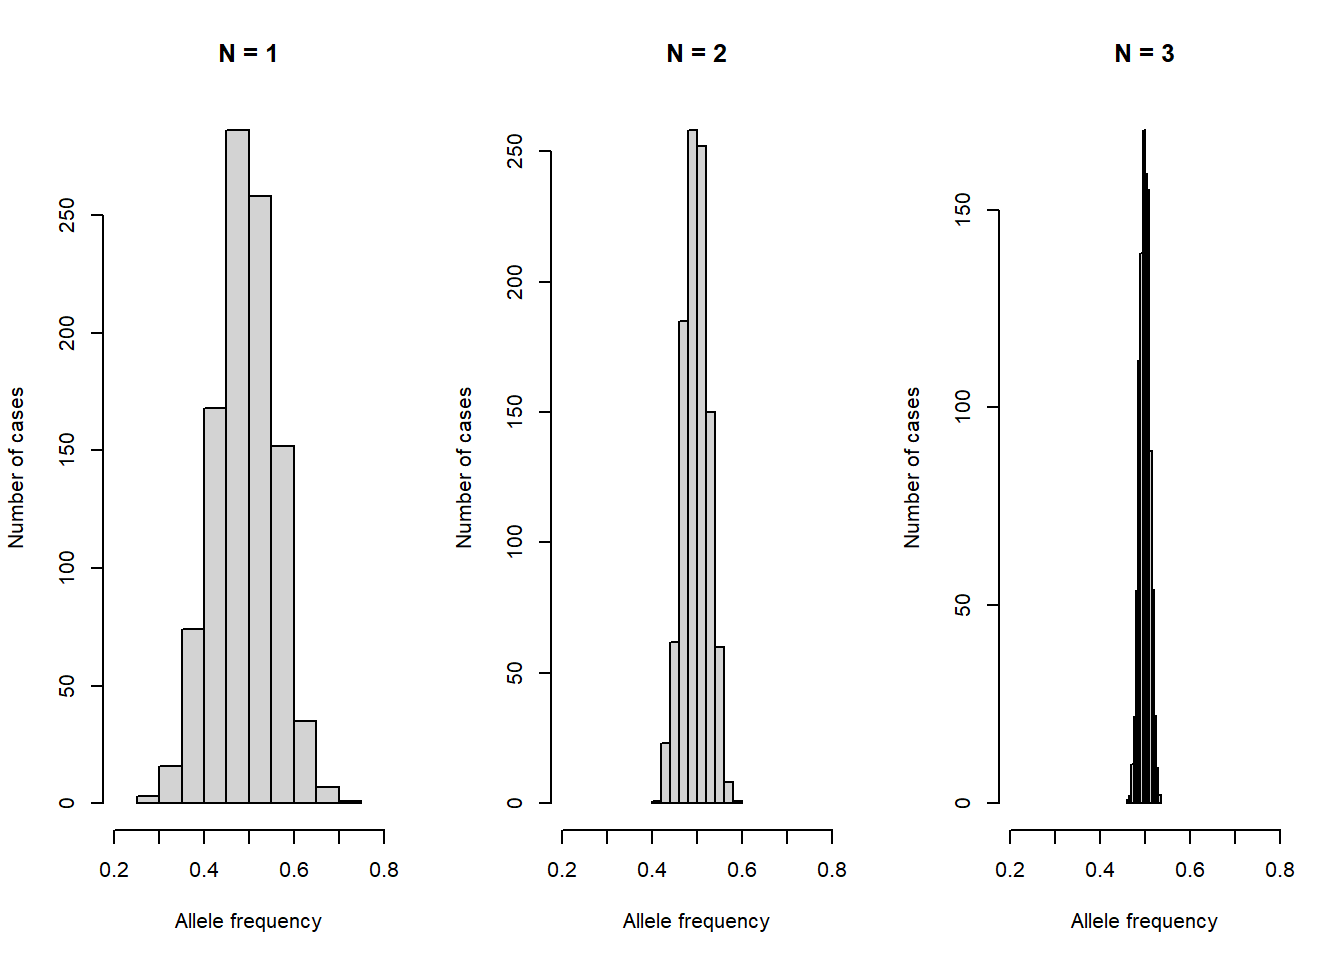
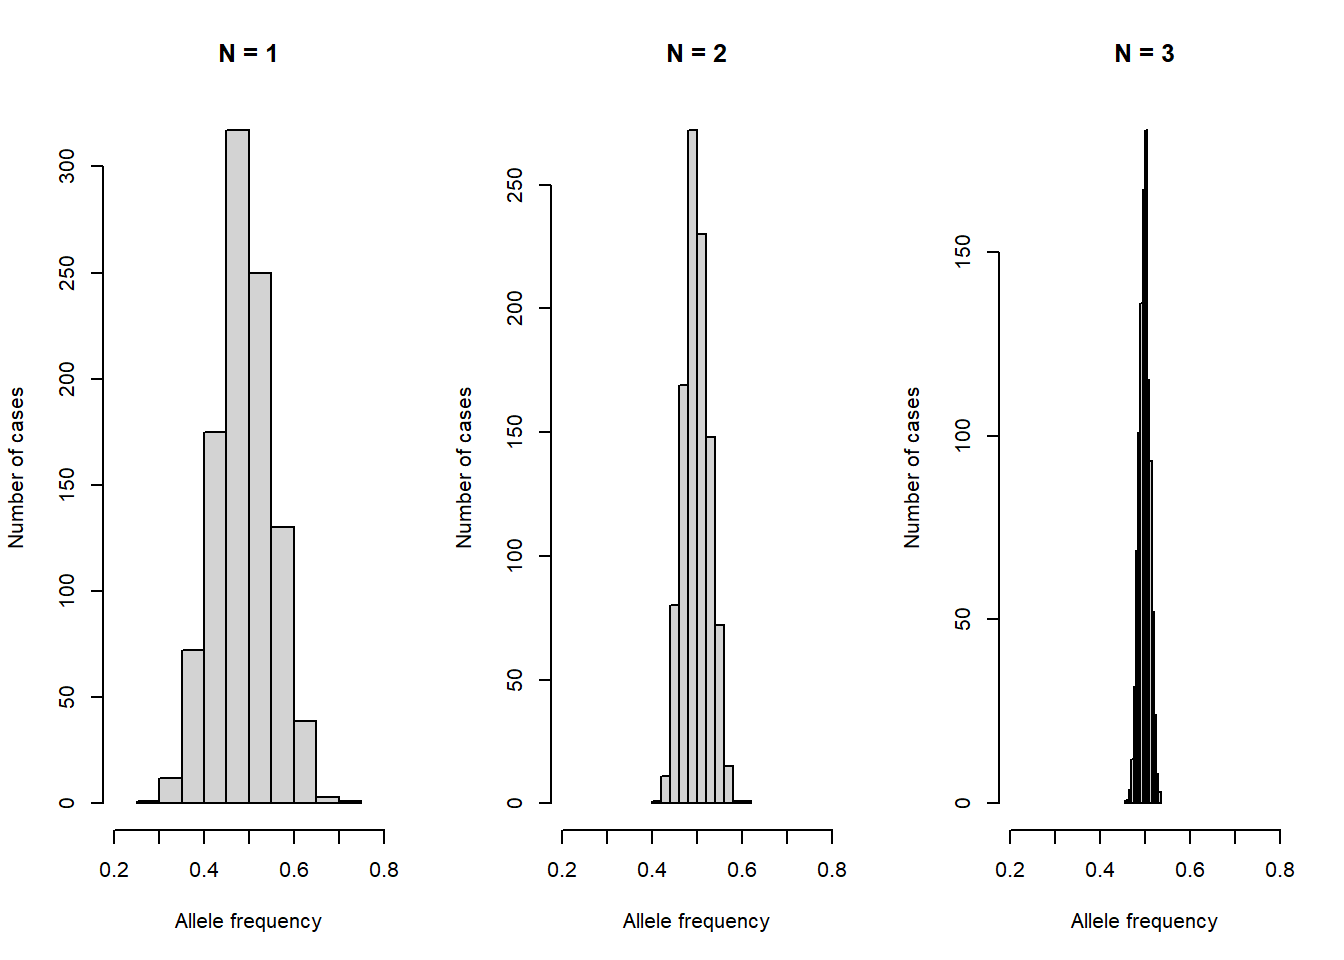
.

diff --git a/docs/index.html b/docs/index.html
@@ -259,7 +259,6 @@ window.Quarto = {
 <p>a. If the true mean length of the whole population is 20 mm and the true population variance is 15 mm, draw a target like one of those in Fig 2.1 that would depict the accuracy and precision of your sample of 16 moths relative to the true population metrics.</p>
 <p>b. What would happen to our estimated standard error (SE) if we increased the sample size? i.e., does the SE increase, decrease or stay the same?</p>
 <p>c. What would happen to the standard deviation (SD) if the sample size increased? i.e., does the SD increase, decrease or stay the same?</p>
-<p><u>2.</u> In the context of endangered species monitoring (Table 2.1), describe Type I and Type II errors and identify their conservation consequences in this context.</p>
 <p>🌶️ Suppose a rare orchid population is found only in a specific forest tract slated for logging. To determine if this population should be protected under the Endangered Species Act (ESA), researchers conduct a study to see if it is genetically distinct from a common, widespread orchid species found throughout the state. Let’s say the null hypothesis is: The rare orchid population is genetically identical to the common species (they are “homogeneous”). The Alternative Hypothesis is: The rare orchid population is a distinct subspecies. Because funding is limited and the flowering season is short, researchers only collect a small sample size of 10 orchids.</p>
 <p>In this context, conservation scientists and policy makers often face a ‘burden of proof’ dilemma. Why the traditional null- hypothesis significant testing may be fundamentally mismatched with the ‘precautionary principle’ required for species conservation.</p>
 <div style="background-color:beige;">
@@ -825,7 +824,7 @@ F-statistic: 62.09 on 1 and 18 DF,  p-value: 3.039e-07</code></pre>
 <span id="cb34-2"><a href="#cb34-2" aria-hidden="true" tabindex="-1"></a>p <span class="ot">&lt;-</span>  <span class="fl">0.5</span>                                             <span class="co"># allele frequency</span></span>
 <span id="cb34-3"><a href="#cb34-3" aria-hidden="true" tabindex="-1"></a><span class="fu">rbinom</span>(<span class="dv">1</span>, <span class="at">size =</span> <span class="dv">2</span> <span class="sc">*</span> n[<span class="dv">1</span>], <span class="at">prob =</span> p) <span class="sc">/</span> (<span class="dv">2</span> <span class="sc">*</span> n[<span class="dv">1</span>])     <span class="co"># allele frequency in the next generation </span></span></code><button title="Copy to Clipboard" class="code-copy-button"><i class="bi"></i></button></pre></div>
 <div class="cell-output cell-output-stdout">
-<pre><code>[1] 0.4</code></pre>
+<pre><code>[1] 0.4333333</code></pre>
 </div>
 <div class="sourceCode cell-code" id="cb36"><pre class="sourceCode r code-with-copy"><code class="sourceCode r"><span id="cb36-1"><a href="#cb36-1" aria-hidden="true" tabindex="-1"></a>t <span class="ot">&lt;-</span> <span class="dv">1000</span>                                             <span class="co"># repeat sampling 1000 times</span></span>
 <span id="cb36-2"><a href="#cb36-2" aria-hidden="true" tabindex="-1"></a>freq <span class="ot">&lt;-</span> <span class="fu">list</span>()</span>